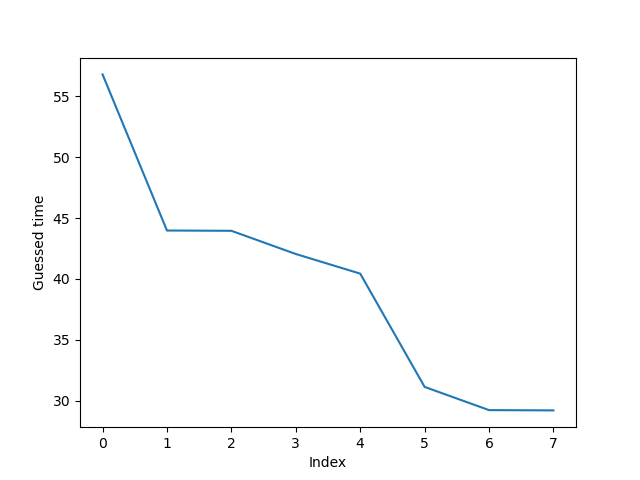
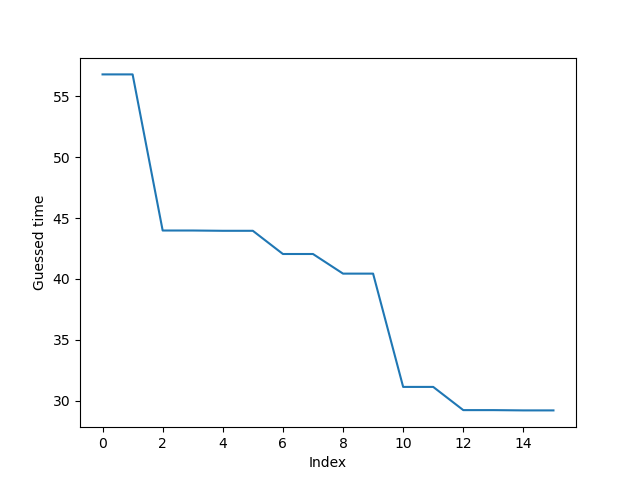
changes in the cpp ranks to bucket

diff --git a/brute_force.cpp b/brute_force.cpp
@@ -40,10 +40,10 @@ char* getfn(int it, char* b, char* c, char* d)
 double get_maxt(int *rank, double *guess, int N,int nr) {
     double maxg[nr]={0};
     double maxt=0;
-    for (int r=0;r<nr;r++){ // for every rank
+    for (int r=0;r<nr;r++){ // for every bucket
         for (int i=0;i<N;i++) { //for every element
             if(rank[i]==r){
-                maxg[r]+=guess[i]; // this guess is on rank r so add to the sum
+                maxg[r]+=guess[i]; // this guess is on bucket r so add to the sum
             }
         }
         if (maxg[r]>maxt){
@@ -94,7 +94,7 @@ void basechange_fill(int N, int nr,double *guess,ofstream& myfile) {
     //double nmax=(world_rank+1.0)/double(world_size)*pow(nr,(N));
     // nmin for 
     /*
-    suppose  nr=2, Nbox_per_rank=2, N=2*2=4
+    suppose  nr=number of buckets=2, Nbox_per_bucket=2, N=2*2=4
     for 0 rank
     nmin=0/2*pow(2,4)=0
     nmax=pow(2,4)=16
@@ -109,7 +109,7 @@ void basechange_fill(int N, int nr,double *guess,ofstream& myfile) {
         for (int j=0;j<N;j++){
             combo[j] = 0;
         }
-        //check there is more than one rank
+        //check there is more than one bucket
         if (nr!=1){
             combo=ternary(i,nr,N); 
             //for the call is ternary(0,2,4)
@@ -252,8 +252,8 @@ int main( int argc, char* argv[]) {
     else{
 
     // get inputs 
-    int nr=atoi(argv[1]); //nr= number of ranks
-    int N=atoi(argv[2])*nr; //boxes per rank is the new input. So, N is total number of box
+    int nr=atoi(argv[1]); //nr= number of bucket
+    int N=atoi(argv[2])*nr; //boxes per bucket is the new input. So, N is total number of box
     int mean=atoi(argv[3]); 
     int stddev=atoi(argv[4]);
     if(argc==6){
@@ -278,7 +278,7 @@ int main( int argc, char* argv[]) {
     myfile.open(ranks_fn);
     for (int i = 0; i<nr;i++){
         ranks[i]=i;
-        myfile << ranks[i] << " ";   // write number of ranks in the ranks_meanValue_stdValue
+        myfile << ranks[i] << " ";   // write list of buckets 
     }
     myfile.close();
 
@@ -295,7 +295,7 @@ int main( int argc, char* argv[]) {
 	myfile << guess[i] << " ";  //write on the guess file guess_meanValue_stdValue_it0
     }
     myfile.close();
-    get_all_combos(N,nr,guess,ranks,combo_fn);  // N=total number of boxes, nr= number of ranks 
+    get_all_combos(N,nr,guess,ranks,combo_fn);  // N=total number of boxes, nr= number of buckets 
                                                 //guess=based on normal distribution 
                                                 //ranks= collection of ranks number suppose 0-63 for 64 ranks
 //   eliminate_repetitions(N,nr,combo_fn,temps_fn);

diff --git a/plots.py b/plots.py
@@ -2,9 +2,9 @@ import numpy as np
 import matplotlib.pyplot as plt
 
 plt.figure()
-for i in range(1,9):
+for i in range(1,11):
 
-    data=np.loadtxt("combo_2_"+str(i)+".txt")
+    data=np.loadtxt("combo_15_"+str(i)+"_it0.0.txt")
     nr=data.shape[1]
     times=data[:,nr-1]
     x=np.arange(len(times))

diff --git a/plot.py b/plot.py
@@ -1,8 +1,8 @@
 import numpy as np
 import matplotlib.pyplot as plt
 
-# data=np.loadtxt("combo_15_2_it0.0.txt")
-data=np.loadtxt("perm_15_2.txt")
+data=np.loadtxt("combo_15_2_it0.0.txt")
+#data=np.loadtxt("perm_15_2.txt")
 print(data.shape)
 nr=data.shape[1]
 times=data[:,nr-1]
